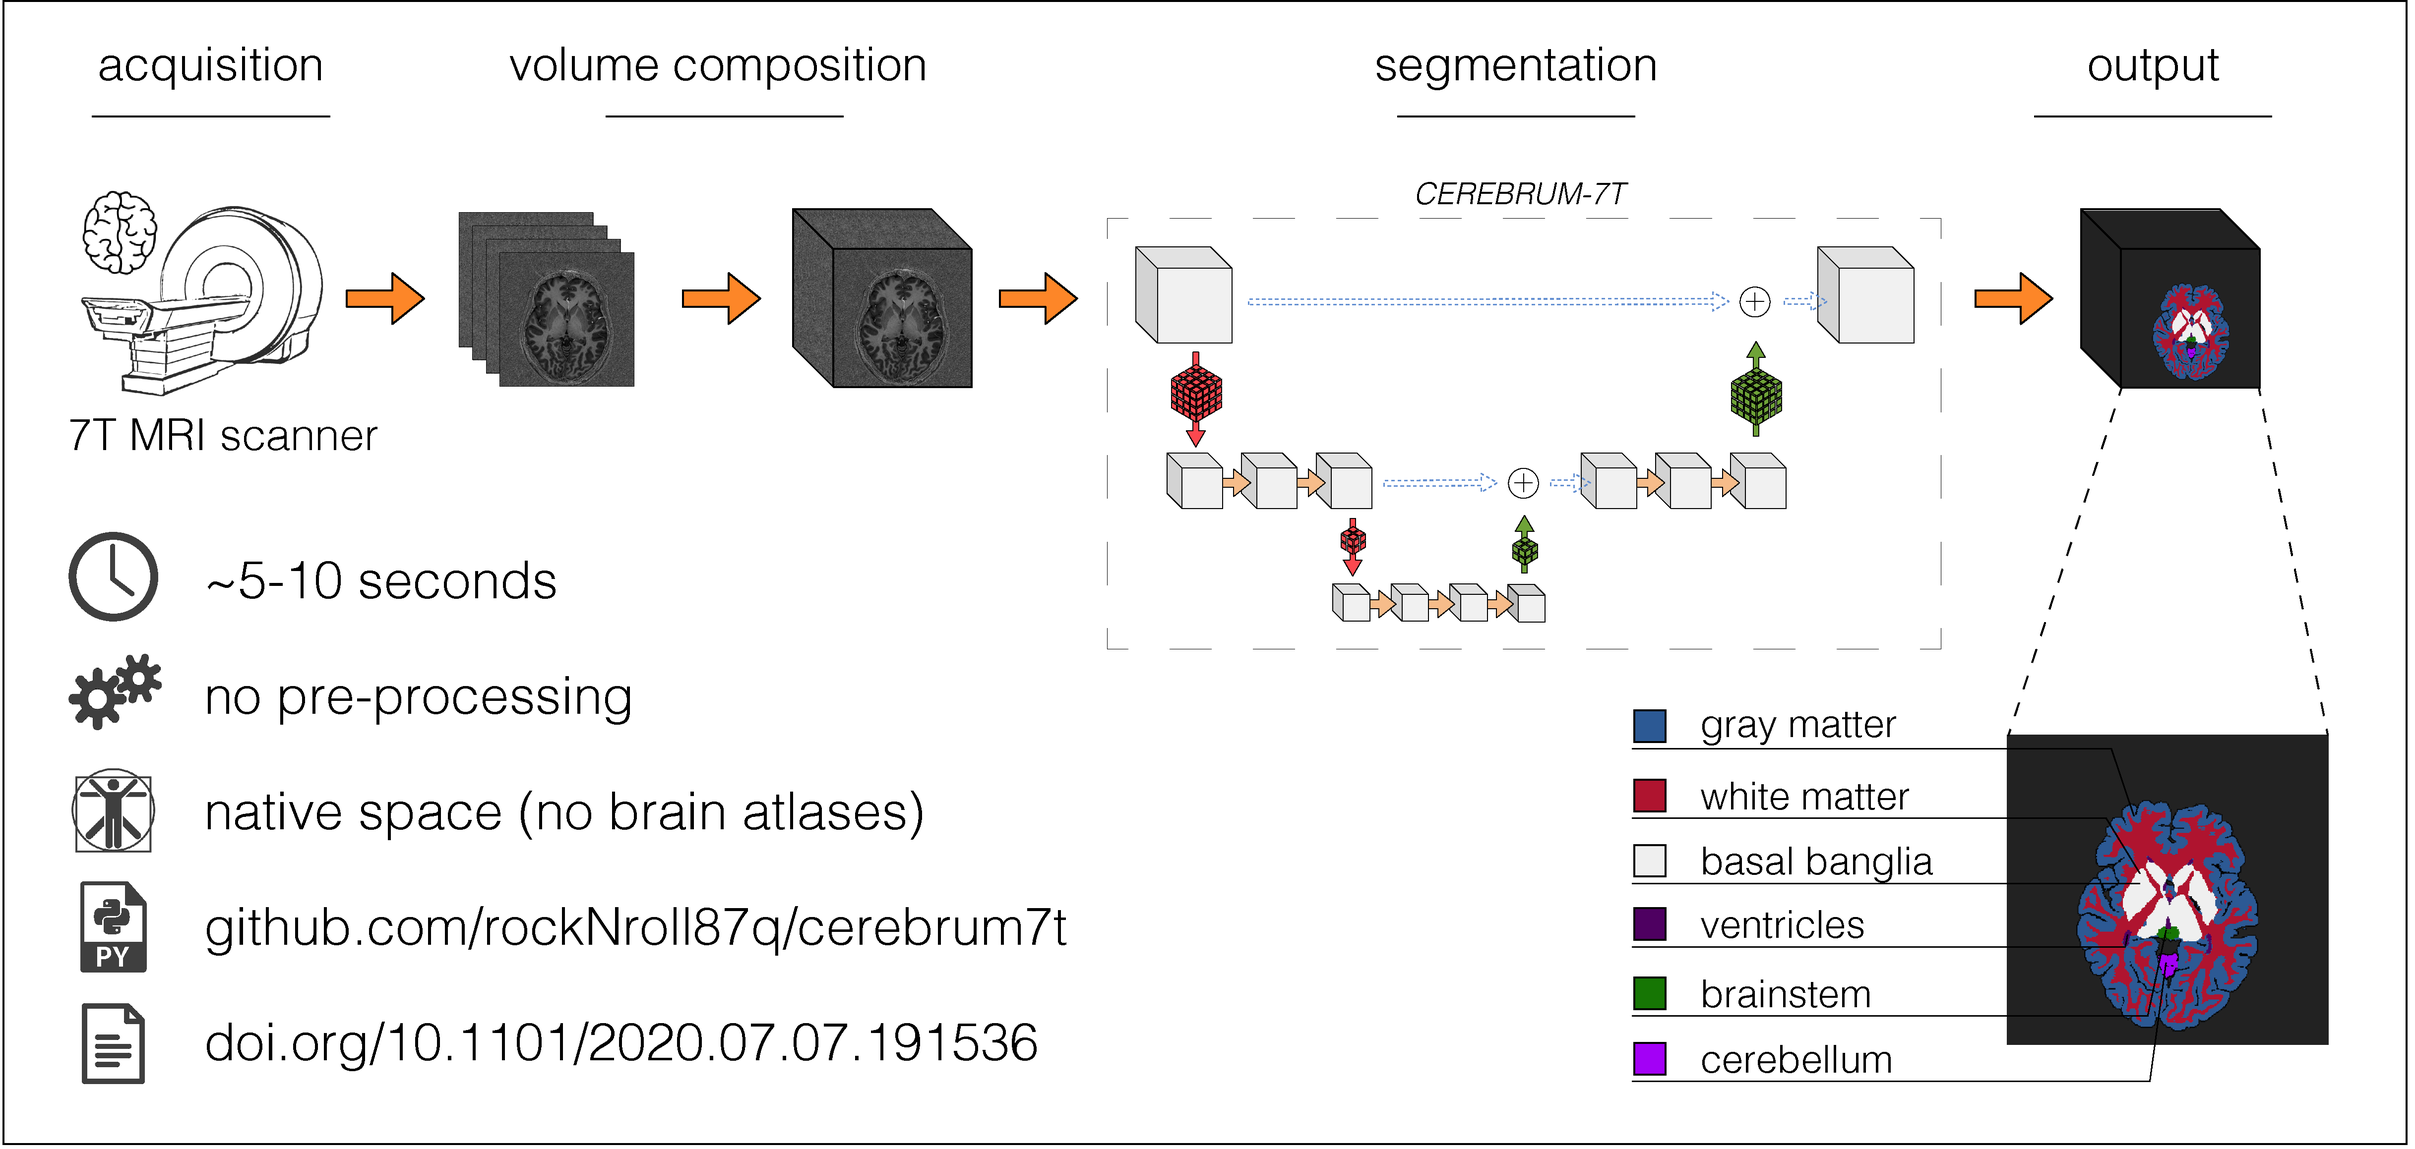
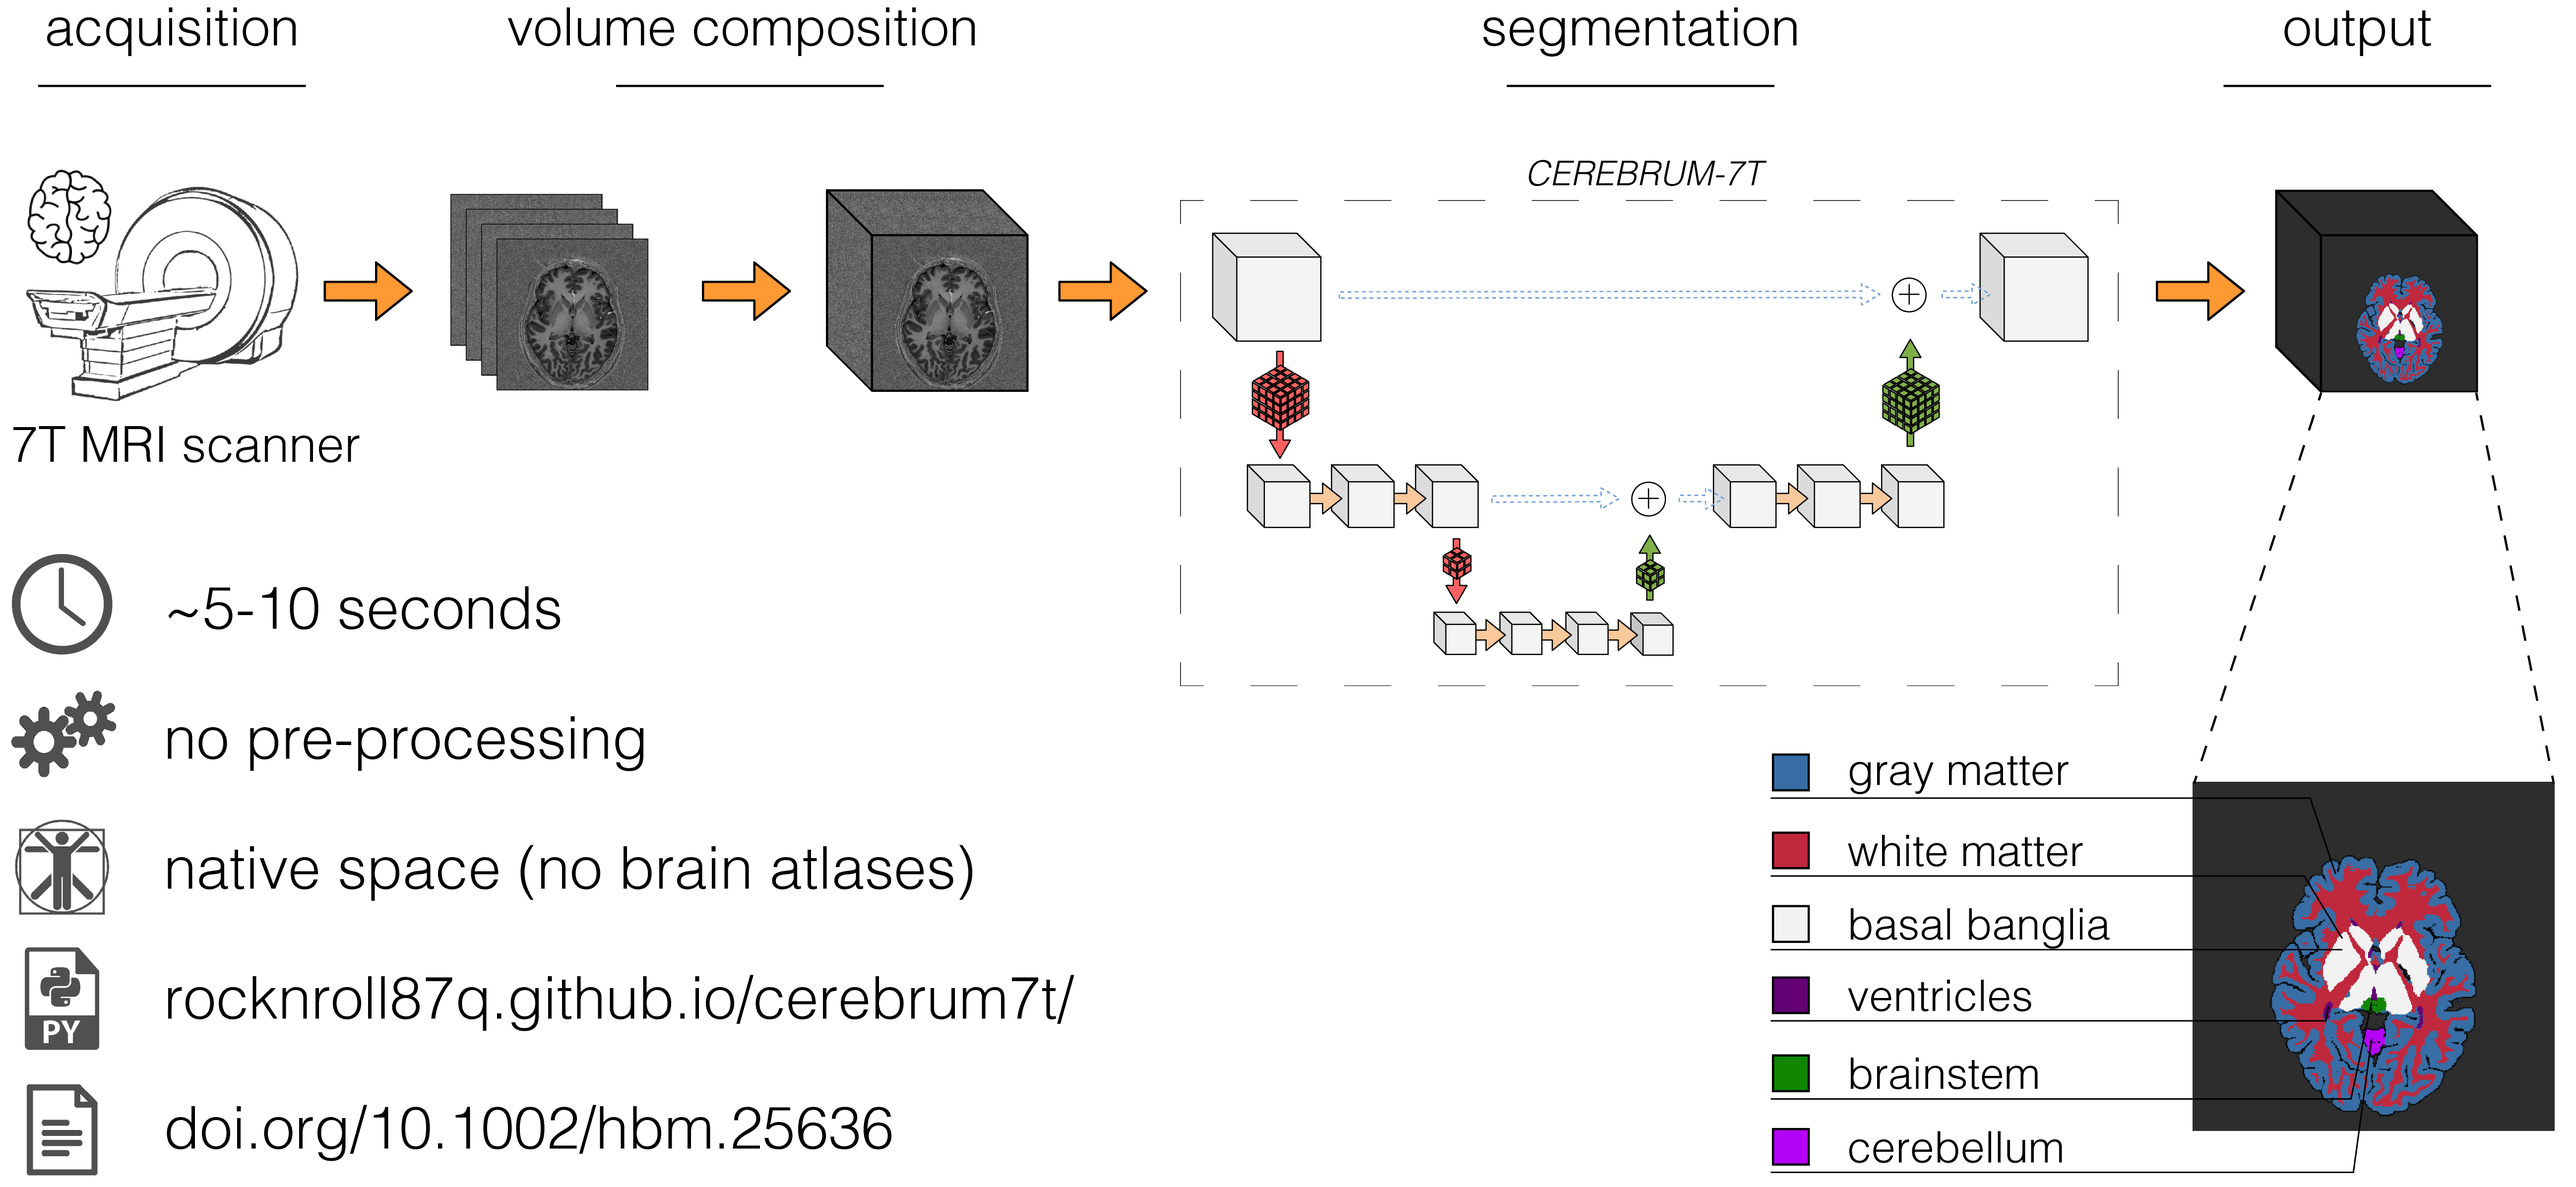
update published paper

diff --git a/_layouts/default.html b/_layouts/default.html
@@ -65,7 +65,7 @@
 	<td align=center width=300px>
 		<center>
 		<kbd>
-			<a href="https://www.biorxiv.org/content/10.1101/2020.07.07.191536v2" target="_blank"><img class="" src = "./misc/paper3.png" height="75px"></img></href></a><br>
+			<a href="https://doi.org/10.1002/hbm.25636" target="_blank"><img class="" src = "./misc/paper3.png" height="75px"></img></href></a><br>
 		</kbd>
 		</center>
 	  </td>

diff --git a/index.md b/index.md
@@ -6,15 +6,7 @@
 <hr>
 # Abstract
 
-Ultra high-field MRI enables sub-millimetre resolution imaging of the human brain, allowing for the resolution of functional circuits at the meso-scale of cortical layers.
-An essential step in many functional and structural neuroimaging studies is segmentation, the operation of partitioning the MR brain images to delineate anatomical structures.
-Despite recent efforts in brain imaging analysis, the literature lacks of accurate and fast methods for segmenting 7 Tesla (7T) brain MRI.
-We here present `CEREBRUM-7T`, an optimised end-to-end Convolutional Neural Network (CNN) architecture, that allows for the segmentation of a whole 7T T1w MRI brain volume at once, thus overcoming the drawbacks of partitioning the volume into 2D or 3D tiles. 
-Training is performed in a weakly supervised fashion, exploiting labelling with errors obtained with automatic state-of-the-art methods. 
-The trained model is able to produce accurate multi-structure segmentation masks on six different classes in only a few seconds. 
-In the experimental part, a combination of objective numerical evaluations and subjective analysis carried out by experienced neuroimaging users, confirms that the proposed solution outperforms the training labels it was trained on in segmentation accuracy, and is suitable for neuroimaging studies, such as layer fMRI studies. 
-Taking advantage of a fine-tuning operation on a reduced set of volumes, we also show how it is possible to efficiently and effectively apply `CEREBRUM-7T` to data from different sites.
-Furthermore, to allow replicability and encourage extensions, we release the code, 7T data (142 volumes), and other materials, including the training labels and the Turing test.
+Ultra high-field MRI enables sub-millimetre resolution imaging of the human brain, allowing the study of functional circuits of cortical layers at the meso-scale. An essential step in many functional and structural neuroimaging studies is segmentation, the operation of partitioning the MR images in anatomical structures. Despite recent efforts in brain imaging analysis, the literature lacks in accurate and fast methods for segmenting 7 Tesla (7T) brain MRI. We here present `CEREBRUM-7T`, an optimised end-to-end Convolutional Neural Network (CNN), that allows fully automatic segmentation of a whole 7T T1w MRI brain volume at once, without partitioning the volume, preprocessing, nor aligning it to an atlas. The trained model is able to produce accurate multi-structure segmentation masks on six different classes plus background in only a few seconds. The experimental part, a combination of objective numerical evaluations and subjective analysis, confirms that the proposed solution outperforms the training labels it was trained on, and is suitable for neuroimaging studies, such as layer fMRI studies. Taking advantage of a fine-tuning operation on a reduced set of volumes, we also show how it is possible to effectively apply `CEREBRUM-7T` to different sites data. Furthermore, we release the code, 7T data, and other materials, including the training labels and the Turing test.
 
 <hr>
 # Results
@@ -97,20 +89,22 @@ The source code to replicate the test is made available [here](https://github.co
 <hr>
 # Citation
 
-Svanera, M., Benini, S., Bontempi, D., & Muckli, L. (2020). CEREBRUM-7T: Fast and Fully-volumetric Brain Segmentation of 7 Tesla MR Volumes. bioRxiv.
+Svanera, M., Benini, S., Bontempi, D., & Muckli, L. (2021). CEREBRUM-7T: Fast and Fully Volumetric Brain Segmentation of 7 Tesla MR Volumes. *Human Brain Mapping*, 1– 18. [doi.org/10.1002/hbm.25636](https://doi.org/10.1002/hbm.25636)
 
 ```
-@article {Svanera2020.07.07.191536,
+@article{SvaneraHBM21Cerebrum7T,
 	author = {Svanera, Michele and Benini, Sergio and Bontempi, Dennis and Muckli, Lars},
-	title = {CEREBRUM-7T: Fast and Fully-volumetric Brain Segmentation of 7 Tesla MR Volumes},
-	elocation-id = {2020.07.07.191536},
-	year = {2020},
-	doi = {10.1101/2020.07.07.191536},
-	publisher = {Cold Spring Harbor Laboratory},
-	URL = {https://www.biorxiv.org/content/early/2020/12/03/2020.07.07.191536},
-	eprint = {https://www.biorxiv.org/content/early/2020/12/03/2020.07.07.191536.full.pdf},
-	journal = {bioRxiv}
+	title = {CEREBRUM-7T: Fast and Fully Volumetric Brain Segmentation of 7 Tesla MR Volumes},
+	journal = {Human Brain Mapping},
+	volume = {n/a},
+	number = {n/a},
+	pages = {},
+	keywords = {3D image analysis, brain MRI segmentation, convolutional neural networks, weakly supervised learning},
+	doi = {https://doi.org/10.1002/hbm.25636},
+	url = {https://onlinelibrary.wiley.com/doi/abs/10.1002/hbm.25636},
+	eprint = {https://onlinelibrary.wiley.com/doi/pdf/10.1002/hbm.25636},
 }
+
 ```
 
 <hr>
